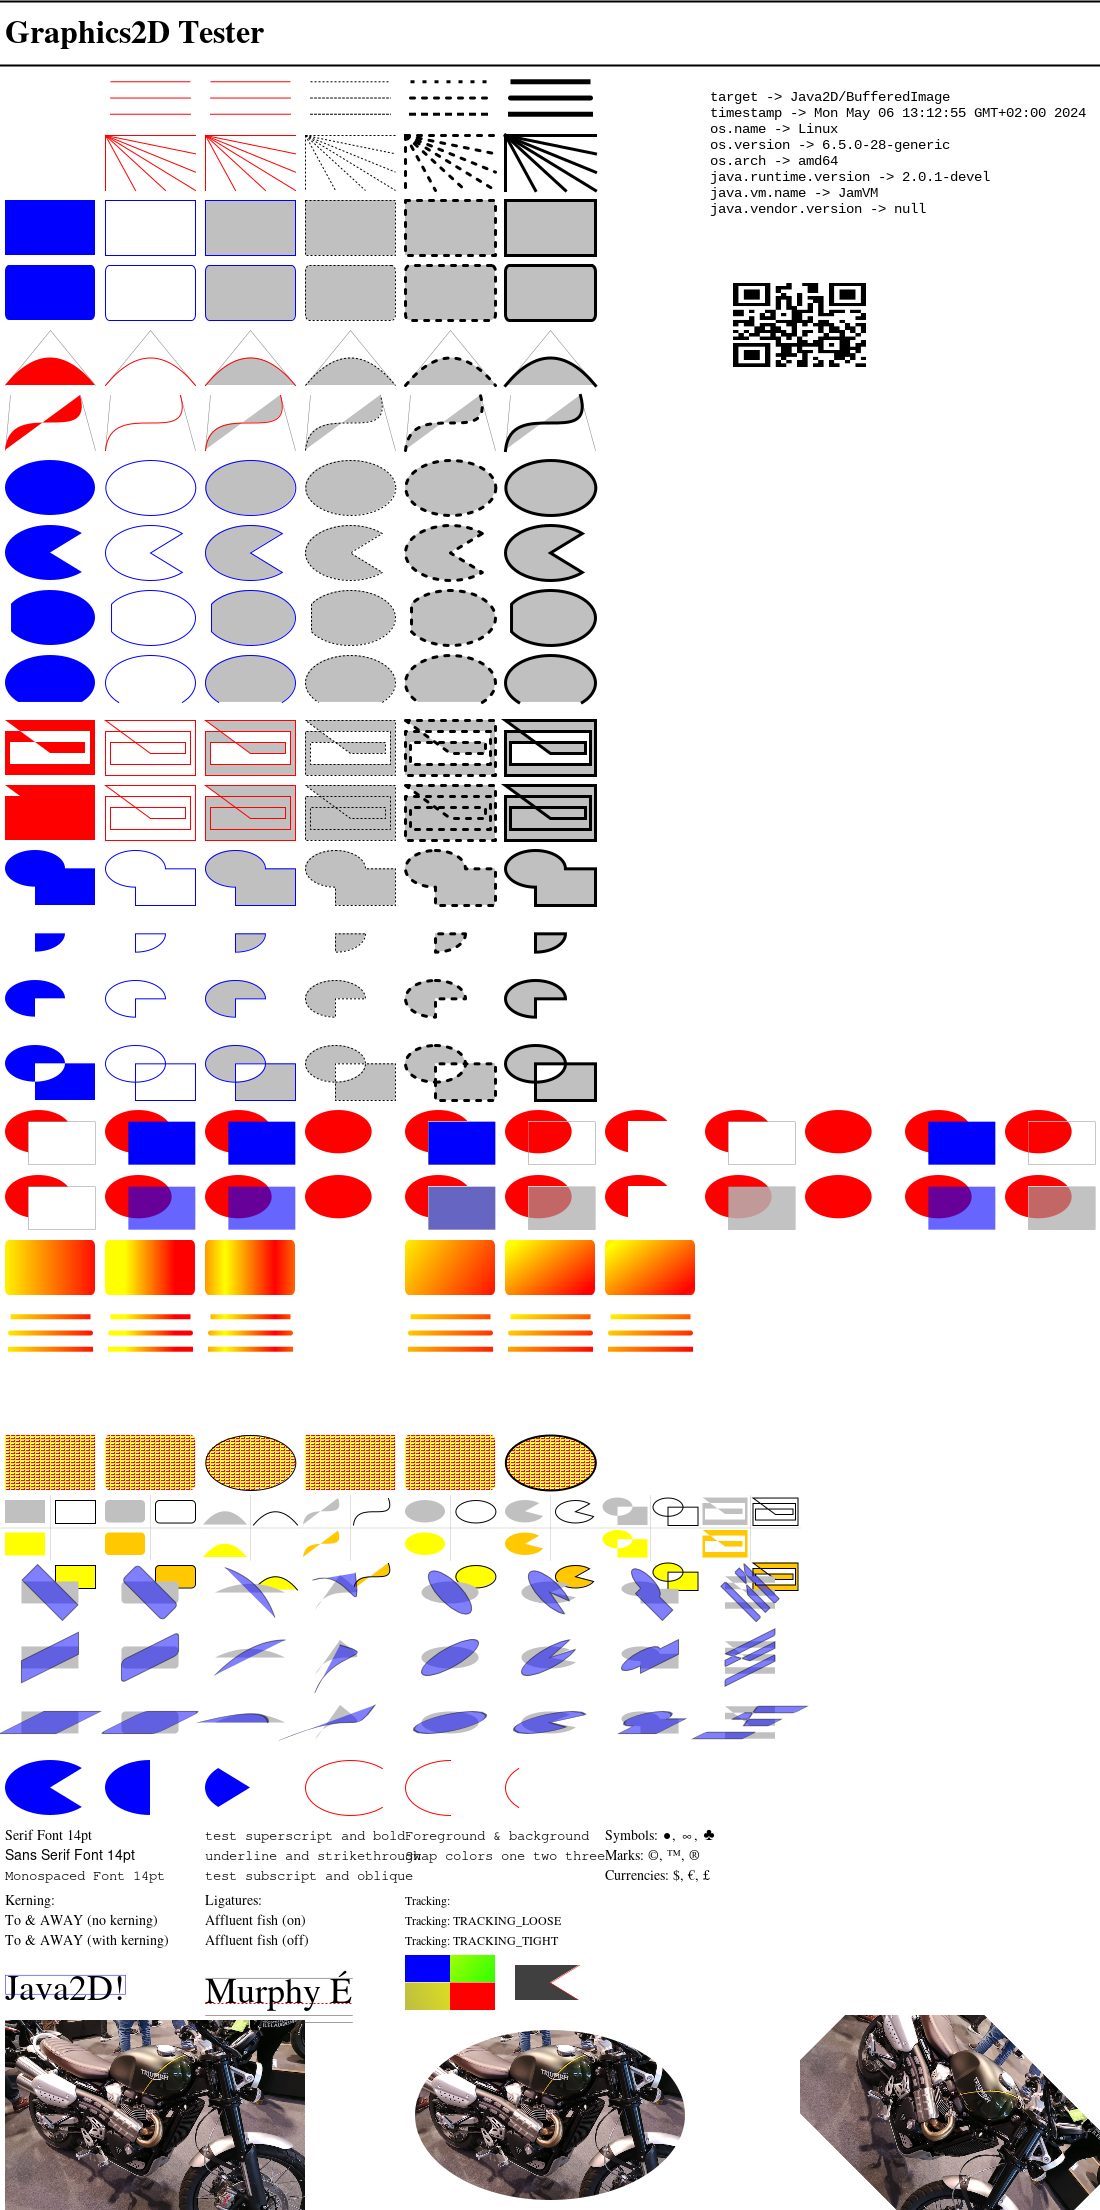
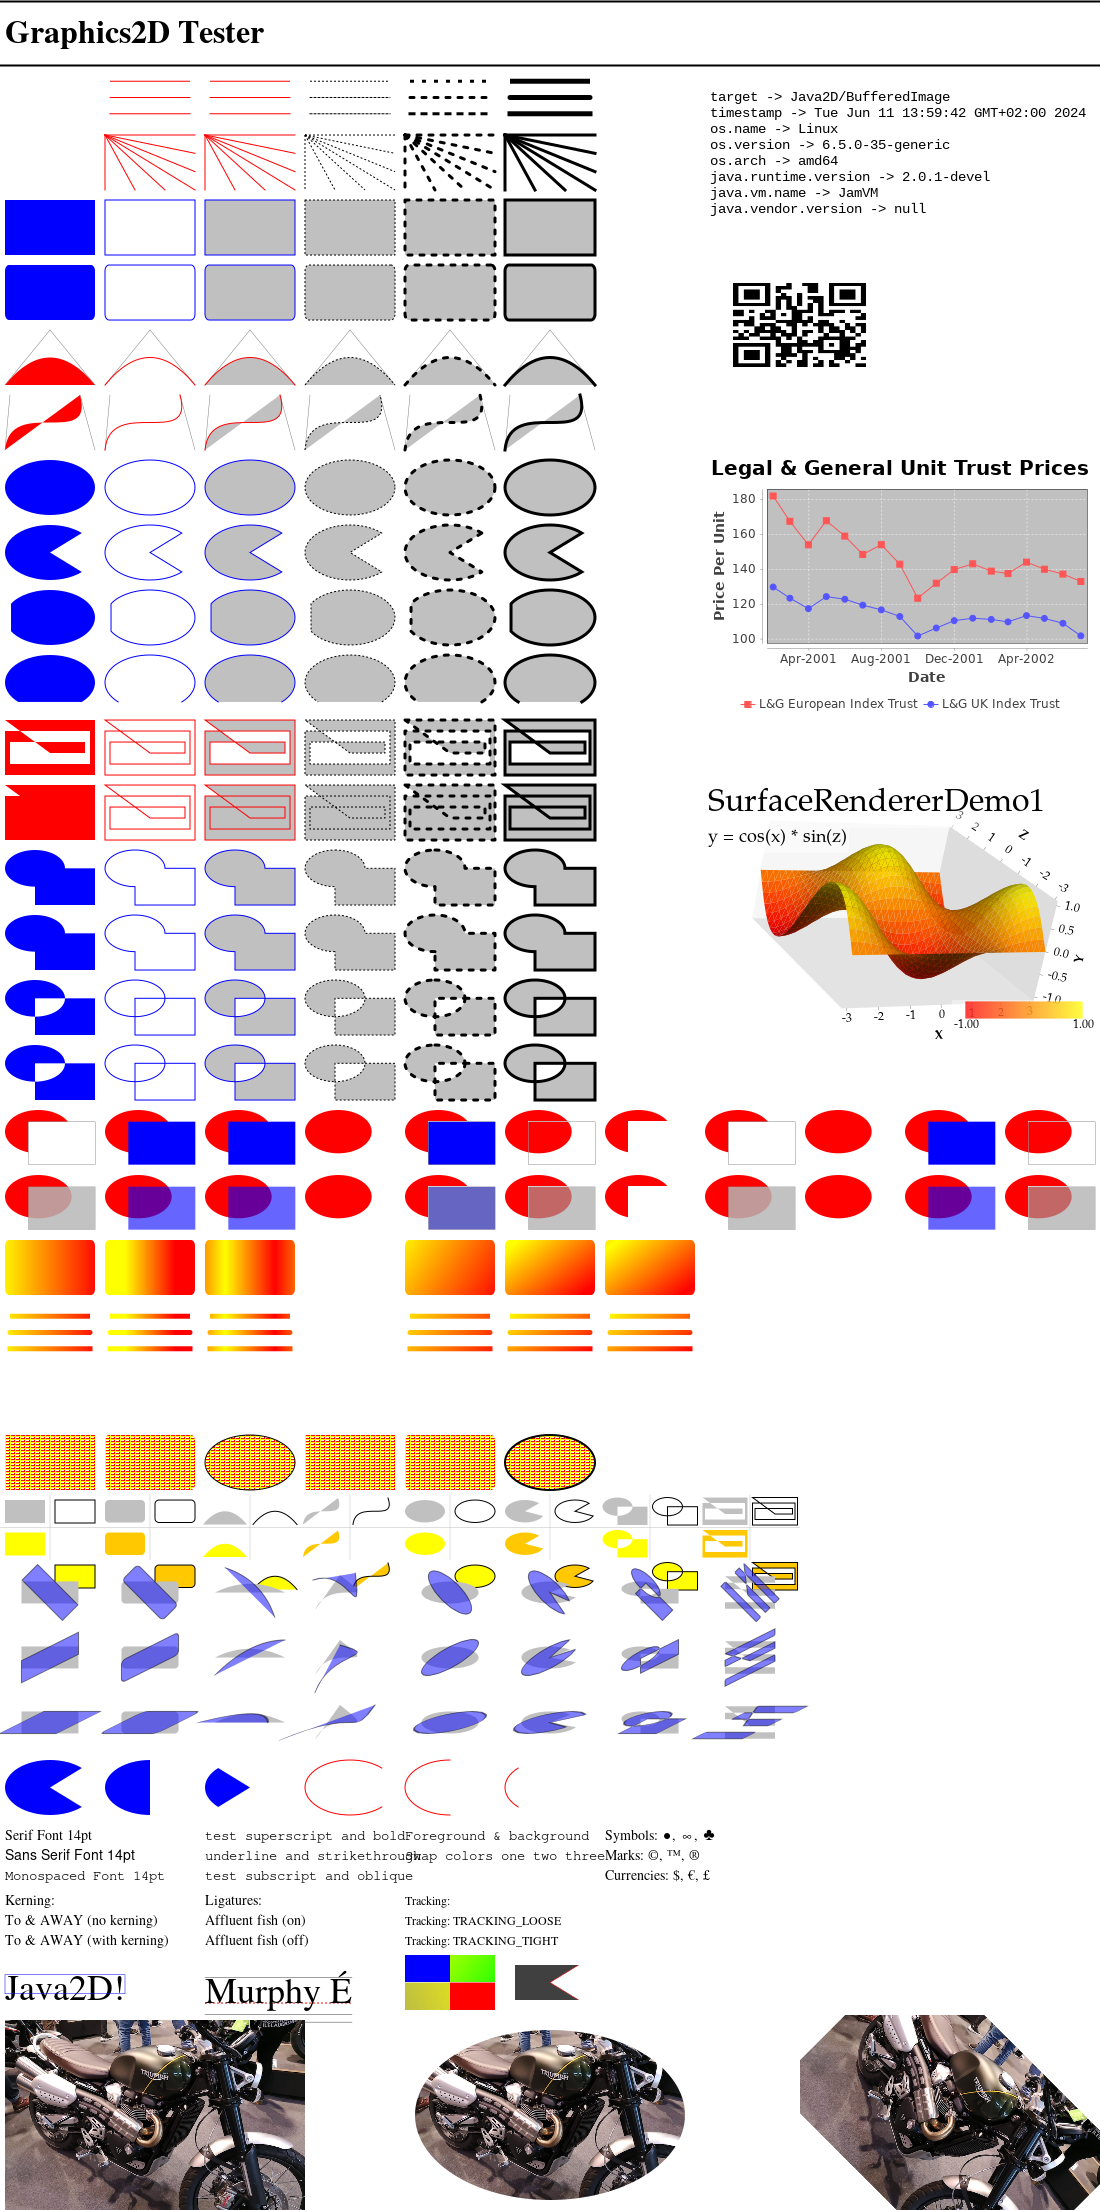
Add Jfreechart and OrsonCharts to Tester

diff --git a/g2d-core/src/main/java/org/jfree/graphics2d/Tester.java b/g2d-core/src/main/java/org/jfree/graphics2d/Tester.java
@@ -10,34 +10,31 @@ package org.jfree.graphics2d;
 import java.awt.*;
 
 import com.orsoncharts.Chart3D;
+import com.orsoncharts.Chart3DFactory;
+import com.orsoncharts.Range;
+import com.orsoncharts.axis.ValueAxis3D;
+import com.orsoncharts.data.function.Function3D;
+import com.orsoncharts.graphics3d.Dimension3D;
+import com.orsoncharts.graphics3d.ViewPoint3D;
+import com.orsoncharts.plot.XYZPlot;
+import com.orsoncharts.renderer.GradientColorScale;
+import com.orsoncharts.renderer.xyz.SurfaceRenderer;
+import org.jfree.chart.ChartFactory;
 import org.jfree.chart.JFreeChart;
-//import org.jfree.chart.plot.flow.FlowPlot;
-import org.jfree.chart.title.TextTitle;
-//import org.jfree.chart3d.Chart3D;
-//import org.jfree.chart3d.Chart3DFactory;
-//import org.jfree.chart3d.axis.ValueAxis3D;
-//import org.jfree.chart3d.data.Range;
-//import org.jfree.chart3d.data.function.Function3D;
-//import org.jfree.chart3d.graphics3d.Dimension3D;
-//import org.jfree.chart3d.graphics3d.ViewPoint3D;
-//import org.jfree.chart3d.plot.XYZPlot;
-//import org.jfree.chart3d.renderer.GradientColorScale;
-//import org.jfree.chart3d.renderer.xyz.SurfaceRenderer;
-//import org.jfree.data.flow.DefaultFlowDataset;
-//import org.jfree.data.flow.FlowDataset;
+import org.jfree.chart.axis.DateAxis;
+import org.jfree.chart.plot.XYPlot;
+import org.jfree.chart.renderer.xy.XYItemRenderer;
+import org.jfree.chart.renderer.xy.XYLineAndShapeRenderer;
+import org.jfree.chart.ui.RectangleInsets;
+import org.jfree.data.time.Month;
+import org.jfree.data.time.TimeSeries;
+import org.jfree.data.time.TimeSeriesCollection;
+import org.jfree.data.xy.XYDataset;
+
 
 import javax.imageio.ImageIO;
 import java.awt.font.LineMetrics;
-import java.awt.geom.AffineTransform;
-import java.awt.geom.Arc2D;
-import java.awt.geom.Area;
-import java.awt.geom.CubicCurve2D;
-import java.awt.geom.Ellipse2D;
-import java.awt.geom.GeneralPath;
-import java.awt.geom.Point2D;
-import java.awt.geom.QuadCurve2D;
-import java.awt.geom.Rectangle2D;
-import java.awt.geom.RoundRectangle2D;
+import java.awt.geom.*;
 import java.awt.image.BufferedImage;
 import java.io.File;
 import java.io.IOException;
@@ -113,80 +110,104 @@ public class Tester {
 //    private static void drawSwingUI(final JFrame frame, final Graphics2D g2) {
 //        frame.getContentPane().paint(g2);
 //    }
-//
-//    private static void prepareOrsonChartSample(final TesterContext tc) {
-//        final Function3D function = (double x, double z) -> Math.cos(x) * Math.sin(z);
-//
-//        final Chart3D chart = Chart3DFactory.createSurfaceChart(
-//                "SurfaceRendererDemo1",
-//                "y = cos(x) * sin(z)",
-//                function, "X", "Y", "Z");
-//
-//        final XYZPlot plot = (XYZPlot) chart.getPlot();
-//        plot.setDimensions(new Dimension3D(10, 5, 10));
-//
-//        final ValueAxis3D xAxis = plot.getXAxis();
-//        xAxis.setRange(-Math.PI, Math.PI);
-//        final ValueAxis3D zAxis = plot.getZAxis();
-//        zAxis.setRange(-Math.PI, Math.PI);
-//
-//        final SurfaceRenderer renderer = (SurfaceRenderer) plot.getRenderer();
-//        renderer.setDrawFaceOutlines(false);
-//        renderer.setColorScale(new GradientColorScale(new Range(-1.0, 1.0),
-//                Color.RED, Color.YELLOW));
-//        chart.setViewPoint(ViewPoint3D.createAboveLeftViewPoint(70.0));
-//        tc.orsonChart = chart;
-//    }
-//
-//    private static void drawOrsonChartSample(final TesterContext tc, Graphics2D g2, Rectangle2D bounds) {
-//        tc.orsonChart.draw(g2, bounds);
-//    }
+
+    private static void prepareOrsonChartSample(final TesterContext tc) {
+        final Function3D function = new Function3D() {
+            @Override
+            public double getValue(double x, double z) {
+                return Math.cos(x) * Math.sin(z);
+            }
+        };
+
+        final Chart3D chart = Chart3DFactory.createSurfaceChart(
+                "SurfaceRendererDemo1",
+                "y = cos(x) * sin(z)",
+                function, "X", "Y", "Z");
+
+        final XYZPlot plot = (XYZPlot) chart.getPlot();
+        plot.setDimensions(new Dimension3D(10, 5, 10));
+
+        final ValueAxis3D xAxis = plot.getXAxis();
+        xAxis.setRange(-Math.PI, Math.PI);
+        final ValueAxis3D zAxis = plot.getZAxis();
+        zAxis.setRange(-Math.PI, Math.PI);
+
+        final SurfaceRenderer renderer = (SurfaceRenderer) plot.getRenderer();
+        renderer.setDrawFaceOutlines(false);
+        renderer.setColorScale(new GradientColorScale(new Range(-1.0, 1.0),
+                Color.RED, Color.YELLOW));
+        chart.setViewPoint(ViewPoint3D.createAboveLeftViewPoint(70.0));
+        tc.orsonChart = chart;
+    }
+
+    private static void drawOrsonChartSample(final TesterContext tc, Graphics2D g2, Rectangle2D bounds) {
+        tc.orsonChart.draw(g2, bounds);
+    }
 //
 //    /**
 //     * Creates a dataset (source https://statisticsnz.shinyapps.io/trade_dashboard/).
 //     *
 //     * @return a dataset.
 //     */
-//    private static DefaultFlowDataset<String> createDataset() {
-//        DefaultFlowDataset<String> dataset = new DefaultFlowDataset<>();
-//        dataset.setFlow(0, "Goods", "Australia", 2101);
-//        dataset.setFlow(0, "Services", "Australia", 714);
-//        dataset.setFlow(0, "Goods", "China", 3397);
-//        dataset.setFlow(0, "Services", "China", 391);
-//        dataset.setFlow(0, "Goods", "USA", 1748);
-//        dataset.setFlow(0, "Services", "USA", 583);
-//        dataset.setFlow(0, "Goods", "United Kingdom", 363);
-//        dataset.setFlow(0, "Services", "United Kingdom", 178);
-//
-//        // dairy, meat, travel, fruits & nuts, wood, beverages
-//        dataset.setFlow(1, "Australia", "Dairy", 165);
-//        dataset.setFlow(1, "Australia", "Travel", 198);
-//        dataset.setFlow(1, "Australia", "Beverages", 170);
-//        dataset.setFlow(1, "Australia", "Other Goods", 2815 - 165 - 198 - 170);
-//
-//        dataset.setFlow(1, "China", "Dairy", 848);
-//        dataset.setFlow(1, "China", "Meat", 463);
-//        dataset.setFlow(1, "China", "Travel", 343);
-//        dataset.setFlow(1, "China", "Fruit & Nuts", 296);
-//        dataset.setFlow(1, "China", "Wood", 706);
-//        dataset.setFlow(1, "China", "Other Goods", 3788 - 848 - 463 - 343 - 296 - 706);
-//
-//        dataset.setFlow(1, "United Kingdom", "Dairy", 18);
-//        dataset.setFlow(1, "United Kingdom", "Meat", 71);
-//        dataset.setFlow(1, "United Kingdom", "Travel", 59);
-//        dataset.setFlow(1, "United Kingdom", "Fruit & Nuts", 13);
-//        dataset.setFlow(1, "United Kingdom", "Beverages", 154);
-//        dataset.setFlow(1, "United Kingdom", "Other Goods", 541 - 18 - 71 - 59 - 13 - 154);
-//
-//        dataset.setFlow(1, "USA", "Dairy", 95);
-//        dataset.setFlow(1, "USA", "Meat", 367);
-//        dataset.setFlow(1, "USA", "Travel", 90);
-//        dataset.setFlow(1, "USA", "Wood", 83);
-//        dataset.setFlow(1, "USA", "Beverages", 157);
-//        dataset.setFlow(1, "USA", "Other Goods", 2331 - 95 - 367 - 90 - 83 - 157);
-//        return dataset;
-//    }
-//
+    private static XYDataset createDataset() {
+
+        TimeSeries s1 = new TimeSeries("L&G European Index Trust");
+        s1.add(new Month(2, 2001), 181.8);
+        s1.add(new Month(3, 2001), 167.3);
+        s1.add(new Month(4, 2001), 153.8);
+        s1.add(new Month(5, 2001), 167.6);
+        s1.add(new Month(6, 2001), 158.8);
+        s1.add(new Month(7, 2001), 148.3);
+        s1.add(new Month(8, 2001), 153.9);
+        s1.add(new Month(9, 2001), 142.7);
+        s1.add(new Month(10, 2001), 123.2);
+        s1.add(new Month(11, 2001), 131.8);
+        s1.add(new Month(12, 2001), 139.6);
+        s1.add(new Month(1, 2002), 142.9);
+        s1.add(new Month(2, 2002), 138.7);
+        s1.add(new Month(3, 2002), 137.3);
+        s1.add(new Month(4, 2002), 143.9);
+        s1.add(new Month(5, 2002), 139.8);
+        s1.add(new Month(6, 2002), 137.0);
+        s1.add(new Month(7, 2002), 132.8);
+
+        TimeSeries s2 = new TimeSeries("L&G UK Index Trust");
+        s2.add(new Month(2, 2001), 129.6);
+        s2.add(new Month(3, 2001), 123.2);
+        s2.add(new Month(4, 2001), 117.2);
+        s2.add(new Month(5, 2001), 124.1);
+        s2.add(new Month(6, 2001), 122.6);
+        s2.add(new Month(7, 2001), 119.2);
+        s2.add(new Month(8, 2001), 116.5);
+        s2.add(new Month(9, 2001), 112.7);
+        s2.add(new Month(10, 2001), 101.5);
+        s2.add(new Month(11, 2001), 106.1);
+        s2.add(new Month(12, 2001), 110.3);
+        s2.add(new Month(1, 2002), 111.7);
+        s2.add(new Month(2, 2002), 111.0);
+        s2.add(new Month(3, 2002), 109.6);
+        s2.add(new Month(4, 2002), 113.2);
+        s2.add(new Month(5, 2002), 111.6);
+        s2.add(new Month(6, 2002), 108.8);
+        s2.add(new Month(7, 2002), 101.6);
+
+        // ******************************************************************
+        //  More than 150 demo applications are included with the JFreeChart
+        //  Developer Guide...for more information, see:
+        //
+        //  >   http://www.object-refinery.com/jfreechart/guide.html
+        //
+        // ******************************************************************
+
+        TimeSeriesCollection dataset = new TimeSeriesCollection();
+        dataset.addSeries(s1);
+        dataset.addSeries(s2);
+
+        return dataset;
+
+    }
+
+    //
 //    /**
 //     * Creates a JFreeChart instance to draw as test output.
 //     *
@@ -194,16 +215,38 @@ public class Tester {
 //     *
 //     * @return A JFreeChart instance.
 //     */
-//    private static JFreeChart createChart(FlowDataset<String> dataset) {
-//        FlowPlot plot = new FlowPlot(dataset);
-//        plot.setBackgroundPaint(Color.BLACK);
-//        plot.setDefaultNodeLabelPaint(Color.WHITE);
-//        plot.setNodeColorSwatch(createPastelColors());
-//        JFreeChart chart = new JFreeChart("Selected NZ Exports Sept 2020", plot);
-//        chart.addSubtitle(new TextTitle("Source: https://statisticsnz.shinyapps.io/trade_dashboard/"));
-//        chart.setBackgroundPaint(Color.WHITE);
-//        return chart;
-//    }
+    private static JFreeChart createChart(XYDataset dataset) {
+
+        JFreeChart chart = ChartFactory.createTimeSeriesChart(
+            "Legal & General Unit Trust Prices",  // title
+            "Date",             // x-axis label
+            "Price Per Unit",   // y-axis label
+            dataset);
+
+        chart.setBackgroundPaint(Color.WHITE);
+
+        XYPlot plot = (XYPlot) chart.getPlot();
+        plot.setBackgroundPaint(Color.LIGHT_GRAY);
+        plot.setDomainGridlinePaint(Color.WHITE);
+        plot.setRangeGridlinePaint(Color.WHITE);
+        plot.setAxisOffset(new RectangleInsets(5.0, 5.0, 5.0, 5.0));
+        plot.setDomainCrosshairVisible(true);
+        plot.setRangeCrosshairVisible(true);
+
+        XYItemRenderer r = plot.getRenderer();
+        if (r instanceof XYLineAndShapeRenderer) {
+            XYLineAndShapeRenderer renderer = (XYLineAndShapeRenderer) r;
+            renderer.setDefaultShapesVisible(true);
+            renderer.setDefaultShapesFilled(true);
+            renderer.setDrawSeriesLineAsPath(true);
+        }
+
+        DateAxis axis = (DateAxis) plot.getDomainAxis();
+        axis.setDateFormatOverride(new SimpleDateFormat("MMM-yyyy"));
+
+        return chart;
+
+    }
 
     private static java.util.List<Color> createPastelColors() {
         List<Color> result = new ArrayList<Color>();
@@ -220,13 +263,13 @@ public class Tester {
         return result;
     }
 
-//    private static void prepareJFreeChartSample(final TesterContext tc) {
-//        tc.jfreeChart = createChart(createDataset());
-//    }
-//
-//    private static void drawJFreeChartSample(final TesterContext tc, Graphics2D g2, Rectangle2D bounds) {
-//        tc.jfreeChart.draw(g2, bounds);
-//    }
+    private static void prepareJFreeChartSample(final TesterContext tc) {
+        tc.jfreeChart = createChart(createDataset());
+    }
+
+    private static void drawJFreeChartSample(final TesterContext tc, Graphics2D g2, Rectangle2D bounds) {
+        tc.jfreeChart.draw(g2, bounds);
+    }
 
     /**
      * Prepare test sheets
@@ -236,9 +279,9 @@ public class Tester {
         try {
             ImageTests.prepareQRCodeImage(tc);
 
-//            prepareJFreeChartSample(tc);
-//
-//            prepareOrsonChartSample(tc);
+            prepareJFreeChartSample(tc);
+
+            prepareOrsonChartSample(tc);
 
             ImageTests.prepareImage(tc);
 
@@ -289,17 +332,17 @@ public class Tester {
         ImageTests.drawQRCodeImage(tc, g2, new Rectangle2D.Double(0, 0, TILE_WIDTH * 2, TILE_HEIGHT * 2), 5);
         row -= 4;
 
-//        // JFREECHART AT RIGHT SIDE
-//        row += 7;
-//        moveTo(TILE_COUNT_H - 4, row, g2);
-//        drawJFreeChartSample(tc, g2, new Rectangle2D.Double(0, 0, TILE_WIDTH * 4, TILE_HEIGHT * 4));
-//        row -= 7;
-//
-//        // ORSON CHARTS AT RIGHT SIDE
-//        row += 12;
-//        moveTo(TILE_COUNT_H - 4, row, g2);
-//        drawOrsonChartSample(tc, g2, new Rectangle2D.Double(0, 0, TILE_WIDTH * 4, TILE_HEIGHT * 4));
-//        row -= 12;
+        // JFREECHART AT RIGHT SIDE
+        row += 7;
+        moveTo(TILE_COUNT_H - 4, row, g2);
+        drawJFreeChartSample(tc, g2, new Rectangle2D.Double(0, 0, TILE_WIDTH * 4, TILE_HEIGHT * 4));
+        row -= 7;
+
+        // ORSON CHARTS AT RIGHT SIDE
+        row += 12;
+        moveTo(TILE_COUNT_H - 4, row, g2);
+        drawOrsonChartSample(tc, g2, new Rectangle2D.Double(0, 0, TILE_WIDTH * 4, TILE_HEIGHT * 4));
+        row -= 12;
 
         row++;  // ***** LINES SPECIAL
         moveTo(0, row, g2);
